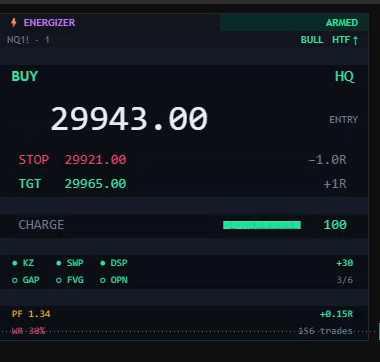
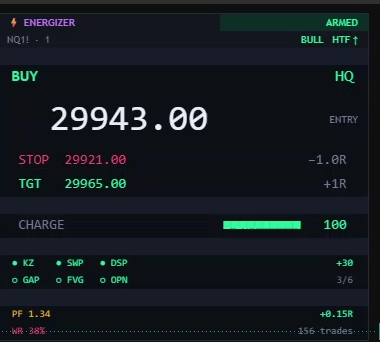
Ảnh confluence về đúng 380px gốc, và khai đúng chiều cao thật
Ảnh cận panel được cắt lại (28,6 KB -> 36,0 KB) và thấp đi 20px. `h` vẫn
để 362 trong khi file thật cao 342: trình duyệt chừa sẵn một khoảng cao
hơn ảnh rồi thu lại lúc giải mã xong — đúng cái layout shift mà luật khai
w/h trong README sinh ra để chặn, chỉ khác là lần này trang tự gây ra.
Khai SAI tệ hơn khai THIẾU, vì thiếu thì nhìn ra còn sai thì không. Đo lại
bằng sharp, không chép số cũ.

`.shot.is-narrow` trước đây là `max-width: 420px; margin-inline: auto`:
ảnh 380px bị kéo lên 420, tức phóng 1,1× — tỉ lệ tệ nhất có thể, đủ để
chữ trong panel nhoè mà không đổi lại được gì. 380px là độ phân giải GỐC
của panel trong bản quay 1920. Giờ là lưới hai cột, ảnh giữ nguyên 1:1 và
caption đứng bên cạnh; dưới 760px thì xếp chồng lại.

Kiểm trên bản production: box 382x344 cho ảnh 380x342 — đúng 1:1 cộng 1px
border mỗi bên.

diff --git a/app/globals.css b/app/globals.css
@@ -789,12 +789,49 @@ section { padding-block: var(--pad); position: relative; }
 .shot img,
 .shot video { display: block; width: 100%; height: auto; }
 
-/* Ảnh cận cảnh panel. Nguồn chỉ rộng 380px — đó là độ phân giải THẬT của
-   panel trong bản quay 1920, không phải lựa chọn thiết kế. Kéo cho vừa bề
-   ngang khối là đổi chữ sắc lấy chữ mờ mà không được thêm thông tin nào, nên
-   ô này giữ nguyên cỡ gốc và căn giữa. `max-width` theo px chứ không theo %:
-   trên màn rộng thì % vẫn kéo ảnh to ra. */
-.shot.is-narrow { max-width: 420px; margin-inline: auto; }
+/* Ảnh cận cảnh. Nguồn chỉ rộng 380px — đó là độ phân giải THẬT của panel
+   trong bản quay 1920, không phải lựa chọn thiết kế. Kéo giãn là đổi chữ sắc
+   lấy chữ mờ mà không thêm được thông tin nào.
+   ⚠ Bản trước ghi đúng câu đó rồi đặt `max-width: 420px` — tức vẫn phóng
+   1.1×, và 1.1 là tỉ lệ tệ nhất: không nguyên nên mỗi pixel chữ bị trải sang
+   hai pixel màn hình. Chú thích nói một đằng, code làm một nẻo.
+   Hai cột thay vì một: ảnh giữ ĐÚNG cỡ gốc (`max-content` co theo `width:auto`
+   bên dưới, nên đổi ảnh khác cỡ cũng không phải sửa lại số ở đây), caption ăn
+   phần còn lại. Xếp dọc thì một hộp 380px đứng lẻ giữa khối 1180px trông như
+   trang vỡ, còn caption bị ép xuống 7 dòng mono chồng nhau. */
+.shot.is-narrow {
+  display: grid;
+  grid-template-columns: minmax(0, max-content) minmax(0, 1fr);
+  align-items: center;
+  gap: var(--s6);
+  max-width: 880px;
+  margin-inline: auto;
+  padding: var(--s6);
+}
+/* Ảnh tự có khung. Ảnh chụp panel mang sẵn nền tối HƠN `--tile`, nên dán sát
+   mép ô thì nửa trái trông như một cái lỗ thủng chứ không như một tấm ảnh.
+   Đệm quanh + viền riêng biến nó thành vật thể đặt trên mặt ô. */
+.shot.is-narrow img,
+.shot.is-narrow video {
+  width: auto; max-width: 100%;
+  border: 1px solid var(--line);
+  border-radius: var(--r-sm);
+}
+/* Caption hết là dải chân ảnh nên bỏ luôn vạch ngăn và đệm riêng của nó —
+   khoảng cách đã do `gap` của lưới lo. Căn giữa trục dọc vì ảnh cao hơn chữ. */
+.shot.is-narrow .shot-cap {
+  border-top: 0; padding: 0;
+  font-size: 12.5px; line-height: 1.85;
+}
+/* Hẹp quá thì xếp dọc. Ảnh VẪN không được phóng — `width:auto` giữ nguyên,
+   `margin-inline:auto` căn giữa cho khỏi lệch trái trong ô rộng hơn nó. Thu
+   nhỏ thì được: bớt pixel không làm chữ nhoè như thêm pixel. */
+@media (max-width: 760px) {
+  .shot.is-narrow { grid-template-columns: minmax(0, 1fr); gap: var(--s5); padding: var(--s5); }
+  .shot.is-narrow img,
+  .shot.is-narrow video { margin-inline: auto; }
+  .shot.is-narrow .shot-cap { font-size: 11.5px; line-height: 1.7; }
+}
 .shot-cap {
   padding: 11px 16px;
   border-top: 1px solid var(--line);

diff --git a/lib/site.ts b/lib/site.ts
@@ -869,8 +869,13 @@ export const media = {
     fill: {
       kind: 'image',
       src: asset('/assets/shots/energizer-panel-confluence.webp'),
+      /* Đo lại bằng `sharp(...).metadata()`, không chép từ lần trước: ảnh
+         này vừa được cắt lại (28,6 KB → 36,0 KB) và thấp đi 20px, nhưng
+         `h` vẫn để 362 nên trình duyệt chừa sẵn một khoảng cao hơn ảnh thật
+         rồi thu lại lúc giải mã xong — đúng cái layout shift mà luật khai
+         w/h sinh ra để chặn. Thay ảnh thì đo lại, đừng đoán. */
       w: 380,
-      h: 362,
+      h: 342,
       alt:
         'Close-up of the Energizer panel on NQ1!: a long armed at 29943.00 with its stop at ' +
         '29921.00 marked −1.0R and its target at 29965.00 marked +1R, charge at 100, and a ' +

diff --git a/components/Confluence.tsx b/components/Confluence.tsx
@@ -91,8 +91,9 @@ export function Confluence() {
 
         {/* Cho tới đây cả khối toàn số do chính trang tự khai. Ảnh cận panel
             là chỗ duy nhất người đọc đối chiếu được mấy trọng số đó với thứ
-            script thật in ra chart. Hẹp và căn giữa: 380px là độ phân giải
-            GỐC của panel, kéo cho vừa bề ngang khối chỉ làm mờ chữ. */}
+            script thật in ra chart. `is-narrow` = ảnh giữ đúng 380px gốc,
+            caption nằm BÊN CẠNH chứ không bên dưới — xem ghi chú ở
+            globals.css, chỗ đó giải thích vì sao phóng 1.1× là tệ nhất. */}
         <Media slot="confluence-panel" gap="var(--s6)" className="shot is-narrow" />
       </div>
     </section>
